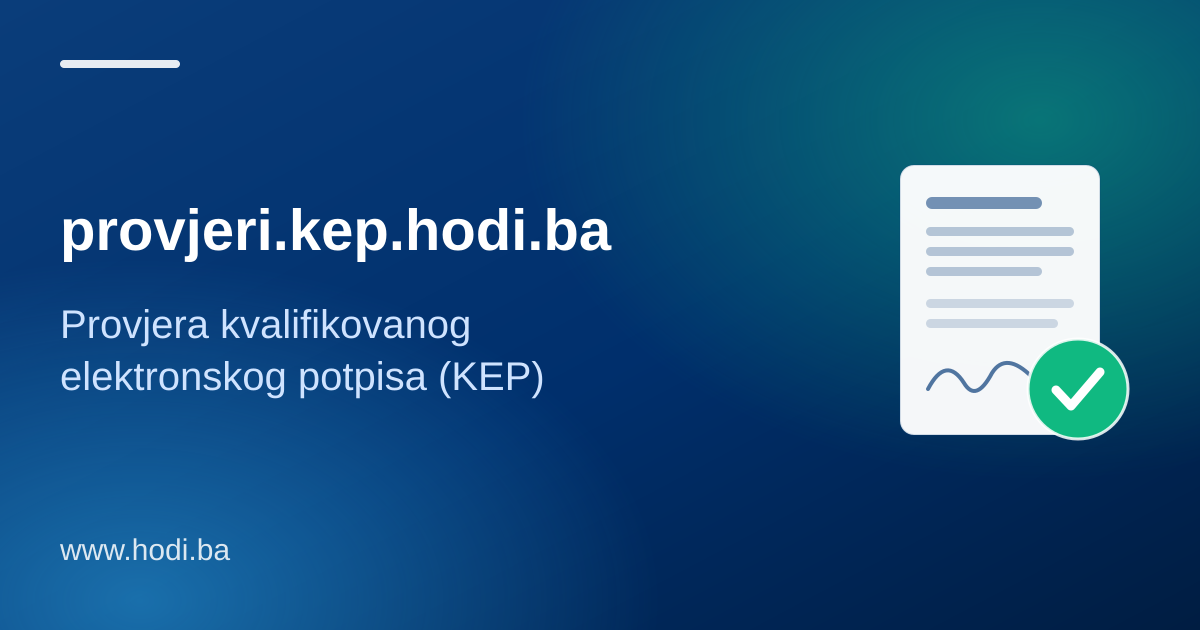
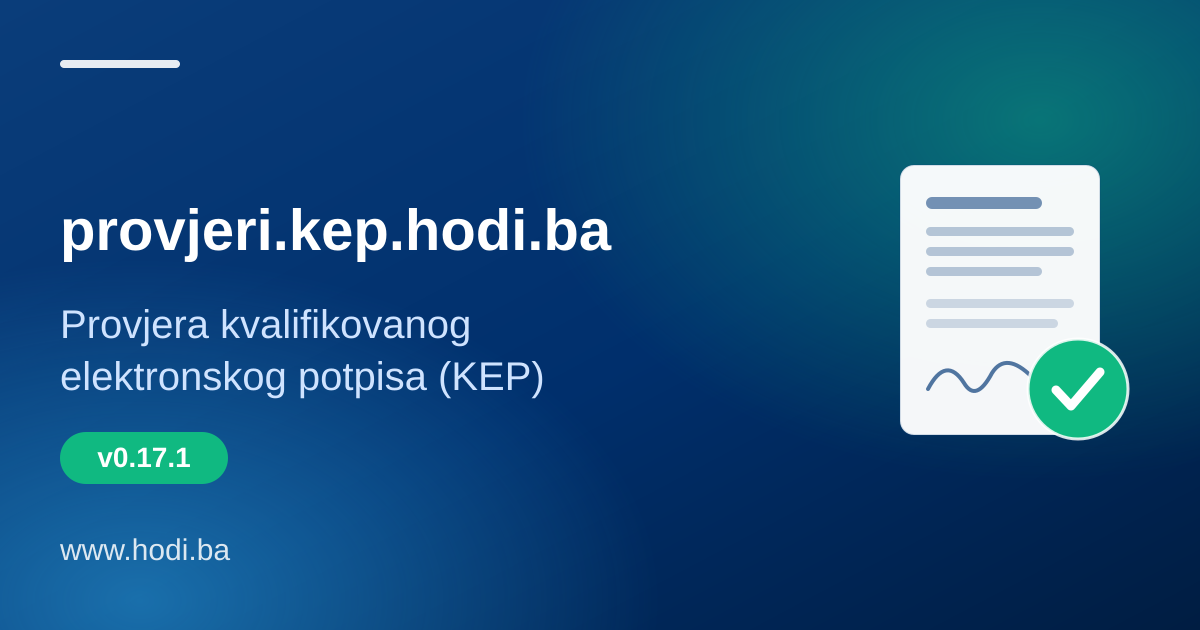
blog(provjeri): v0.17.1 — MX-check screenshot, Halcom, version in title/hero
- Headline + hero badge bumped to v0.17.1.
- Add registration screenshot showing the new MX-record domain check.
- List all four supported CAs: IDDEEA, UIO, BHP, Halcom.
- Opening line announces the new version.

🤖 assisted by claude

Changed region(s): [[0.0308, 0.6635, 0.2158, 0.7841]]

diff --git a/src/content/blog/provjeri-kep-hodi-servis-2026.md b/src/content/blog/provjeri-kep-hodi-servis-2026.md
@@ -1,11 +1,11 @@
 ---
-title: 'provjeri.kep.hodi.ba — besplatna provjera kvalifikovanog elektronskog potpisa'
+title: 'provjeri.kep.hodi.ba v0.17.1 — besplatna provjera kvalifikovanog elektronskog potpisa'
 description: 'Online servis koji provjerava da li PDF ili XML dokument nosi validan kvalifikovani elektronski potpis (KEP) — podrška za IDDEEA, UIO i BHP certifikate.'
 pubDate: '2026-06-22T10:52:00'
 heroImage: '/provjeri-kep-hodi-hero.png'
 ---
 
-Objavili smo **[provjeri.kep.hodi.ba](https://provjeri.kep.hodi.ba)** — besplatan online servis za provjeru kvalifikovanog elektronskog potpisa (KEP) na dokumentima. Učitate potpisani **PDF** ili **XML**, a servis vam odmah kaže da li dokument nosi **validan kvalifikovani elektronski potpis**, ko ga je potpisao i da li su svi uslovi za pravnu valjanost ispunjeni.
+Objavili smo novu verziju **[provjeri.kep.hodi.ba](https://provjeri.kep.hodi.ba)** v0.17.1 — besplatan online servis za provjeru kvalifikovanog elektronskog potpisa (KEP) na dokumentima. Učitate potpisani **PDF** ili **XML**, a servis vam odmah kaže da li dokument nosi **validan kvalifikovani elektronski potpis**, ko ga je potpisao i da li su svi uslovi za pravnu valjanost ispunjeni.
 
 ## Šta servis radi
 
@@ -28,11 +28,12 @@ Kvalifikovani elektronski potpis je elektronski potpis koji po Zakonu o elektron
 
 ## Podržani izdavači certifikata u BiH
 
-Servis prepoznaje i provjerava certifikate tri bosanskohercegovačka certifikaciona tijela:
+Nova verzija prepoznaje i provjerava certifikate **sva četiri** certifikaciona tijela koja se koriste u BiH:
 
 - **IDDEEA** — Agencija za identifikaciona dokumenta, evidenciju i razmjenu podataka BiH; izdaje kvalificirane certifikate građanima i pravnim licima.
 - **UIO (UINO)** — Uprava za indirektno-neizravno oporezivanje BiH; certifikati za potpisivanje dokumenata u sistemu indirektnog oporezivanja (npr. PDV prijave).
 - **BHP (BH Pošta)** — JP BH Pošta d.o.o.; certifikati za elektronsko potpisivanje dokumenata.
+- **Halcom** — Halcom CA; kvalificirani certifikati koji se u BiH koriste za elektronsko potpisivanje dokumenata.
 
 ## Šta sve servis provjeri za svaki potpis
 
@@ -53,6 +54,10 @@ Pored same ocjene, za svaki potpis se prikažu i podaci o potpisniku — ime, or
 2. Nakon što administrator odobri pristup, na email dobijete pristupni link.
 3. Učitate potpisani PDF ili XML i kliknete **Verifikuj potpis**.
 4. Servis prikaže rezultat za svaki potpis — zelena oznaka za validan KEP, uz sve detalje provjere.
+
+Pošto se pristupni link šalje na email, forma za registraciju provjerava da li email domena uopšte može primati poštu (ima li MX zapis). Ako unesete adresu sa nepostojećom domenom, zahtjev se odmah odbija:
+
+![Registracija: provjera MX zapisa email domene](/provjeri-kep-registracija-mx.png)
 
 Servis je besplatan i namijenjen svima koji u BiH primaju ili šalju elektronski potpisane dokumente i žele brzu, pouzdanu potvrdu da je potpis zaista valjan.
 
